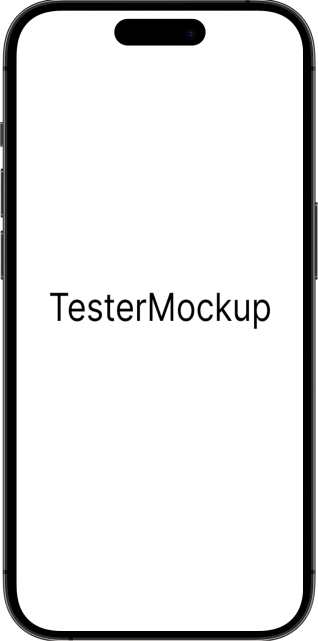
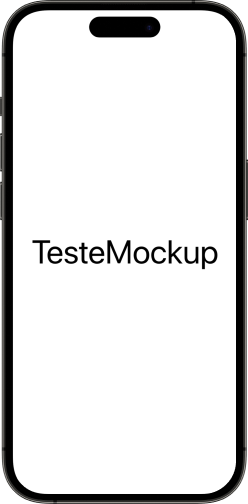
redimensionamento de imgs e adição de hyperlinks

Changed region(s): [[0.0, 0.0, 1.0, 1.0], [0.1411, 0.4464, 0.875, 0.5357]]

diff --git a/index.html b/index.html
@@ -29,7 +29,7 @@
     <meta name="format-detection" content="5511993569500">SEO 
      -->
 
-  <title>Home</title>
+  <title>Sistemas Maximus</title>
   <meta name="format-detection" content="telephone=no" />
   <meta name="viewport"
     content="width=device-width, height=device-height, initial-scale=1.0, maximum-scale=1.0, user-scalable=0" />
@@ -1335,10 +1335,9 @@
               <div class="col-sm-6 col-md-4 text-sm-right text-md-center">
                 <div>
                   <ul class="list-inline list-inline-sm footer-social-list-2">
-                    <li><a class="icon fa fa-facebook" href="https://web.facebook.com/people/Sistemas-Maximus/100087268397761/"></a></li>
-                    <a href="https://www.linkedin.com/company/sistemasmaximus/">Linkedln</a>
-                    <!-- <li><a class="icon fa fa-google-plus" href="#"></a></li> -->
-                    <li><a class="icon fa fa-instagram" href="https://www.instagram.com/sistemasmaximus/"></a></li>
+                    <li><a class="icon fa fa-facebook" href="https://web.facebook.com/people/Sistemas-Maximus/100087268397761/" target="_blank"></a></li>
+                    <li><a class="icon fa fa-linkedin-square" href="https://www.linkedin.com/company/sistemasmaximus/" target="_blank"></a></li>
+                    <li><a class="icon fa fa-instagram" href="https://www.instagram.com/sistemasmaximus/" target="_blank"></a></li>
                   </ul>
                 </div>
               </div>
